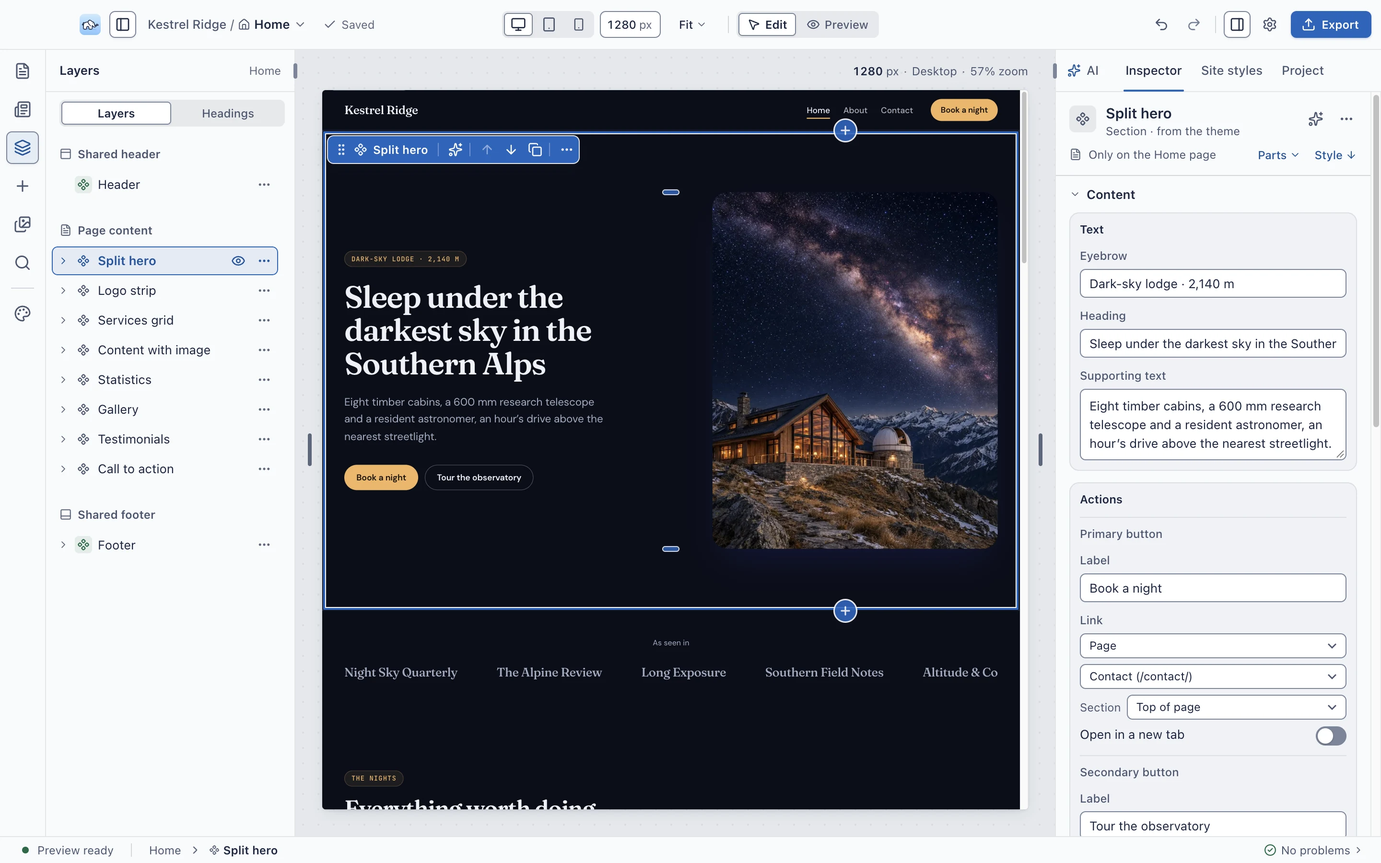
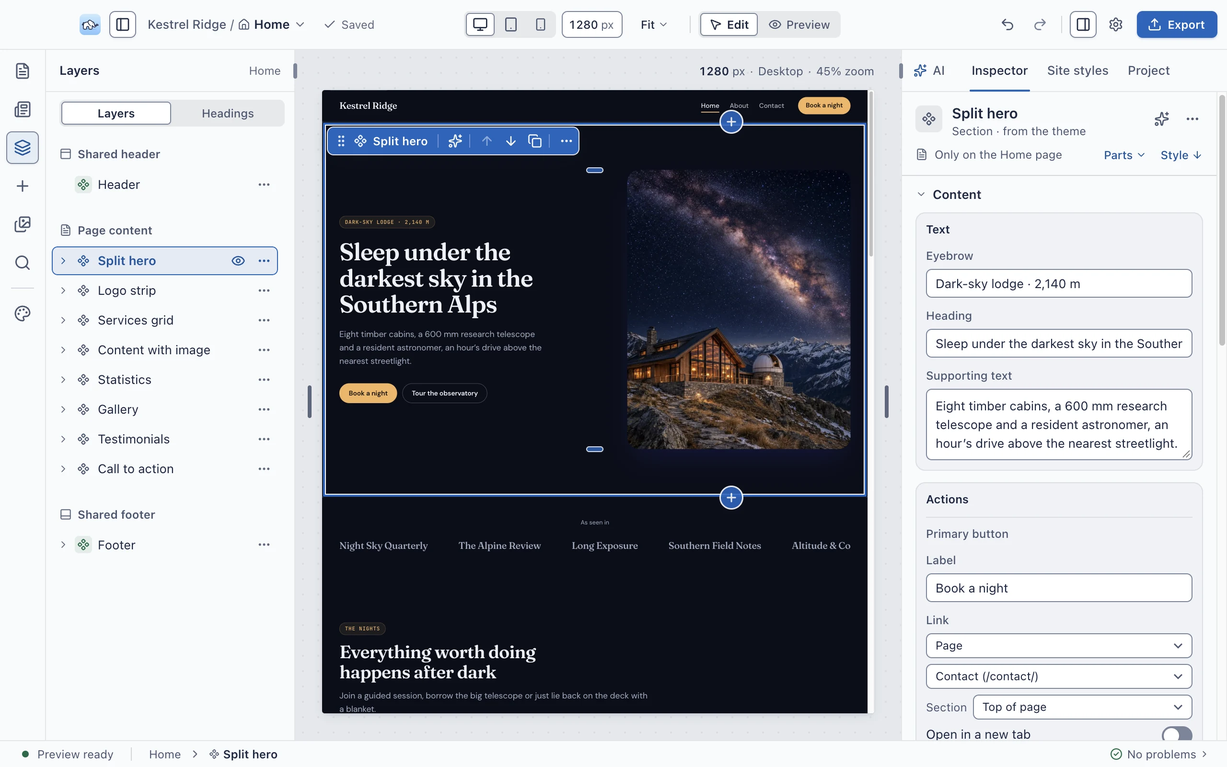
docs(readme): restructure around features, with SEO, content and collaboration
- One Features section with a short part per area, each a few bullets and a
  captioned light and dark screenshot, plus an Also included table
- New Search and sharing section with a capture of the SEO view, and new
  Content and Working together sections covering the CMS, outside data
  sources and live sessions
- Run it from source moves up to the second screen, with the first task
- Screenshots retaken at a smaller window and cropped to what each one shows,
  including a blog post in the writer and the AI run with its new section
- Narrower claims on local models, export output and installer signing, and
  the release checklist's CI line matches the pull request check

diff --git a/README.md b/README.md
@@ -1,218 +1,254 @@
 <p align="center">
-  <img src="build/icon.png" width="96" height="96" alt="SiteOrigin Builder">
+  <img src="build/icon.png" width="64" height="64" alt="SiteOrigin Builder icon">
 </p>
 
 <h1 align="center">SiteOrigin Builder</h1>
 
 <p align="center">
   <strong>Websites you own, built visually.</strong><br>
-  A free, open-source desktop editor for small and mid-sized websites, with an AI assistant that can run on your own computer.
+  A free, open-source desktop editor for small and mid-sized websites, from a business site with a blog to a portfolio or a small publication. Every site is a plain SvelteKit project on your own computer.
 </p>
 
 <p align="center">
-  <a href="#what-you-can-build">Features</a> ·
-  <a href="#the-ai-assistant">AI assistant</a> ·
-  <a href="#your-site-is-just-a-sveltekit-project">Your code</a> ·
-  <a href="#future-work-a-local-first-model">Local model</a> ·
-  <a href="#development">Development</a>
+  <a href="LICENSE"><img src="https://img.shields.io/badge/licence-Apache--2.0-blue" alt="Licence: Apache-2.0"></a>
+  <img src="https://img.shields.io/badge/status-v0.1%20prototype-orange" alt="Status: v0.1 prototype">
+  <img src="https://img.shields.io/badge/runs%20on-macOS%20%C2%B7%20Windows%20%C2%B7%20Linux-lightgrey" alt="Runs on macOS, Windows and Linux">
+</p>
+
+<p align="center">
+  <a href="#run-it-from-source">Run it from source</a> ·
+  <a href="#features">Features</a> ·
+  <a href="#roadmap">Roadmap</a>
 </p>
 
 <p align="center">
   <picture>
     <source media="(prefers-color-scheme: dark)" srcset="docs/images/readme/editor-dark.webp">
-    <img src="docs/images/readme/editor-light.webp" alt="The SiteOrigin Builder editor: a dark-sky lodge website on the canvas with its hero section selected, the layers panel on the left and the inspector on the right" width="100%">
+    <img src="docs/images/readme/editor-light.webp" alt="The SiteOrigin Builder editor with a dark-sky lodge website on the canvas, its hero section selected in the layers tree and open in the inspector" width="100%">
   </picture>
+  <br>
+  <sub>Editing the home page of Kestrel Ridge, a made-up lodge site. The selection is shared by the canvas, the layers tree and the inspector.</sub>
 </p>
 
-SiteOrigin Builder is a desktop app for building websites. You edit the site directly on the canvas, and you can ask an AI assistant to do the heavy lifting when that's quicker.
+You edit the site directly on the canvas, and you can ask an AI assistant when that's quicker, using a cloud model or one running on your own machine. Builder also shows you how every page will look in search results and shared links, and you can invite people into a live session to watch or edit with you.
 
-It's aimed at the middle ground. Think a business site with a blog, a studio portfolio with case studies and a team page, or a small publication. Posts, collections and archives cover the content side, so you're not limited to a handful of static pages. It isn't meant for web apps, online stores or sites with user accounts.
-
-Every site you make is a normal SvelteKit project in a folder on your computer. You can export it, put it in git, host it anywhere or hand it to a developer. There's no account to create, no hosted database and nothing your published site depends on.
+What you build is yours: a folder you can put in git, host anywhere or hand to a developer. There's no account to create, and your published site runs without Builder. It isn't meant for web apps, online stores or sites with user accounts.
 
 > [!NOTE]
-> This is a prototype (version 0.1). It already builds real multi-page sites, but the project format will still change before 1.0. The screenshots in this README are of the real app, editing a made-up dark-sky lodge called Kestrel Ridge.
+> This is a prototype (version 0.1). It already builds real multi-page sites, but the project format will still change before 1.0. The screenshots here are of the real app.
 
-## Why it exists
+## Run it from source
 
-Most website builders keep your site on their servers. You rent it, and if you leave, you start again.
+Downloadable installers are planned. For now, run Builder from source with Node 24.15+ (22.22.2+ and 26+ also work).
 
-With SiteOrigin Builder, the editor runs on your computer and writes standard SvelteKit code into your project folder. You use the app to build the site, then deploy the output wherever you want.
+```sh
+git clone https://github.com/siteorigin/builder.git
+cd builder
+npm install
+npm run dev
+```
 
-A few practical choices shape the editor:
+When the app opens, choose **New project**, pick the Business starter and start editing. **Export** gives you the finished site. The AI assistant is optional: add a key or point it at a local model in **Settings → AI assistant**.
 
-- **The page stays front and centre.** The live preview gets most of the window, with sidebars for pages, layers, styles and chat around it.
-- **You don't need AI.** Manual editing does everything on its own. The assistant is there when it's quicker to ask.
-- **One edit path for you and the AI.** Assistant changes go through the same validation and undo history as your own edits.
-- **Crash recovery is built in.** Edits are written to a journal and grouped into undo steps, so interrupted work can be recovered.
+## Features
 
-## What you can build
+### Design on the canvas
 
-### Editing on the canvas
+Click anything on the page to select it, and edit text right where it sits. The inspector shows the controls for whatever you picked, from text, links and images to layout, spacing, typography and appearance.
 
-Click anything on the canvas to select it, and edit text right where it sits. The inspector shows typed controls for whatever you picked (text, links, images, icons, lists), plus layout, spacing, size, typography and appearance. Selection stays in sync across the canvas, the layers tree, the breadcrumb and the inspector.
-
-Drag sections to reorder them, or move elements between containers in Layers. Wrap things in a stack, row or grid, turn a repeated element into a list, or save a section as a component to reuse across the site.
-
-<p align="center">
-  <picture>
-    <source media="(prefers-color-scheme: dark)" srcset="docs/images/readme/phone-insert-dark.webp">
-    <img src="docs/images/readme/phone-insert.webp" alt="The Insert panel listing column layouts and blocks, with the site previewed at phone width and the hero section selected" width="100%">
-  </picture>
-</p>
-
-### Responsive overrides
-
-Every page has one content tree and one set of styles, with optional overrides for phone, tablet and desktop. Switch the preview width and override only the styles that need to change at that size.
-
-### Site-wide styles
-
-Colours, fonts, text styles, spacing, containers, radii, shadows and borders all live in one place as site-wide tokens. Change the brand colour once and every button, link and badge follows. Contrast is checked as you go, so you can see whether button text is still readable before you ship it.
+- **Sections and layouts.** Insert sections, drag them into order, or wrap elements in a stack, row or grid.
+- **Reusable components.** Save a section as a component, edit it everywhere at once, or make one copy unique.
+- **Responsive overrides.** One page and one set of styles, with overrides for phone, tablet and desktop only where you need them.
+- **History and versions.** Undo survives a restart, and you can save named versions and restore any of them.
 
 <p align="center">
   <picture>
-    <source media="(prefers-color-scheme: dark)" srcset="docs/images/readme/site-styles-dark.webp">
-    <img src="docs/images/readme/site-styles.webp" alt="The Site styles panel showing the Signal theme, the brand colour with live contrast checks, and the display font set to Fraunces" width="100%">
+    <source media="(prefers-color-scheme: dark)" srcset="docs/images/readme/phone-dark.webp">
+    <img src="docs/images/readme/phone.webp" alt="The lodge site previewed at 390 pixels wide, with its hero section selected and its eyebrow, heading, text and buttons open in the inspector" width="100%">
   </picture>
+  <br>
+  <sub>The same page at phone width. The content is shared, so only styles you override for phone change.</sub>
 </p>
 
-### Three themes, one set of components
+### Search and sharing
 
-SiteOrigin Builder includes three themes built on the same component contracts, so you can switch themes without losing any of your content.
+The **SEO view** takes over the canvas. It opens on an overview of every page and post and flags the ones that still need a search title, description or sharing image. Choose one and you get a realistic results page, with your own result marked among placeholder results, and it updates as you type.
+
+- **Search results and link previews.** Computer or phone, light or dark, plus each platform's share card, so you can see where a title gets cut short or an image is missing.
+- **Structured data in plain words.** What search engines are told about the page, with the raw JSON-LD tucked away.
+- **Optimize with AI.** Ask the assistant to improve the chosen page's title and description.
+- **Built into the export.** Every site gets `sitemap.xml`, `robots.txt` with a crawler policy and canonical links. Translated pages get `hreflang` alternates, and moved pages get redirect rules for Cloudflare, Netlify or Vercel.
+- **Ready for AI agents.** Every site gets `llms.txt`, and you can turn on Markdown copies of each page and WebMCP declarations for your forms and search.
+
+<p align="center">
+  <picture>
+    <source media="(prefers-color-scheme: dark)" srcset="docs/images/readme/seo-dark.webp">
+    <img src="docs/images/readme/seo.webp" alt="The SEO view listing the site's pages and posts, with a realistic search results page in which the Kestrel Ridge home page is marked among placeholder results" width="100%">
+  </picture>
+  <br>
+  <sub>The SEO view. The arrow marks the Kestrel Ridge result, and you can see where its title gets cut off. The other results are placeholders for comparison.</sub>
+</p>
+
+### The AI assistant
+
+The assistant uses the same validated edit operations as the visual editor, so its changes behave exactly like yours. Ask for something and it reads the page, makes its changes, checks them and reports back. Each request lands as a single undo step.
+
+It works within strict limits:
+
+- **Scope is explicit.** With an element selected, a request can only change that element. Anything wider needs your approval, and the assistant asks for it.
+- **Typed tools only.** It has no shell, filesystem or network access, so it can only act through the editor's own tools.
+- **No image pixels go to the model.** It refers to images by name and ID instead of uploading them.
+- **No custom code unless Developer mode is on.** By default it works with theme components and site styles.
+
+<p align="center">
+  <picture>
+    <source media="(prefers-color-scheme: dark)" srcset="docs/images/readme/ai-running-dark.webp">
+    <img src="docs/images/readme/ai-running.webp" alt="The AI panel partway through a request: an earlier turn has finished with a summary of its changes, and the current turn has added an Aurora season section, which is visible on the canvas, with Stop and undo beside it" width="100%">
+  </picture>
+  <br>
+  <sub>A request in progress. The new section is already on the page, and <strong>Stop and undo</strong> is one click away.</sub>
+</p>
+
+It can also set up a collection, fill it from images you drag into the chat and design its page template.
+
+Page text and structure go to the provider you choose: **OpenAI**, **Anthropic**, or a **local model** through any OpenAI-compatible server, with presets for llama.cpp, Ollama, LM Studio and MLX. Run the model server on your own computer and the assistant's requests stay on that machine. Qwen3.5-2B, the base of our own model, has a built-in profile that knows its real context window.
+
+### Themes and site styles
+
+Three themes ship with Builder. They share one set of component contracts, so you can switch themes and keep all of your content.
 
 | Theme | Character |
 | --- | --- |
 | **Foundation** | Clean and restrained, for service businesses, studios and personal sites. |
-| **Editorial** | High-contrast and typographic: a display serif, hairline rules and asymmetric columns. |
+| **Editorial** | High-contrast and typographic, for magazines, architects and studios: a display serif, hairline rules and asymmetric columns. |
 | **Signal** | Geometric and crisp, for product teams, consultancies and modern trades. |
 
-Each theme covers more than thirty sections and blocks: heroes, service grids, galleries, carousels, pricing tables, team grids, testimonials, FAQs, data tables, video, contact forms, site search, blog layouts and more. Contact forms post to Formspree, Basin, Getform, Web3Forms or Netlify Forms, so you don't need a server.
-
-### Pages, posts and site tools
-
-- **Pages and posts.** Add, nest and reorder pages, set routes and SEO, and mark drafts. Posts have categories, tags, archives and an RSS feed. You can import existing posts from a WordPress export file or a folder of Markdown (Jekyll, Hugo, Eleventy and Astro front matter all work).
-- **Collections.** Structured content like team members, projects or events, each with its own fields and an optional page per entry.
-- **Languages.** Give a page a language and link its translations. The export declares `hreflang` alternates for you.
-- **SEO and AI discovery.** A dedicated SEO view checks titles, descriptions and sharing images across the whole site. SiteOrigin Builder can also write `llms.txt`, Markdown mirrors of each page and WebMCP declarations for AI agents.
-- **Assets.** Import images (with responsive copies made for you), fonts and documents. You can see where each one is used, replace it everywhere at once or clear out anything unused.
-- **History and versions.** Undo survives a restart, the history is grouped into readable steps, and you can save named versions and restore any of them.
-- **Find and replace, command menu, spelling.** Replace text across every page, run any action from the command menu (Cmd/Ctrl+K), and fix spelling with a right-click.
-
-### Custom Svelte code
-
-Turn on **Developer mode** in Settings and you can view the generated Svelte for any component, convert a component to code, or write your own Svelte components in a built-in editor with live compiler diagnostics. Before saving, the editor checks that the component compiles for browser and server, imports only allowed modules, and avoids raw HTML and `eval`. If a check fails, it blocks the save and shows you why. With an AI provider set up, a small repair agent can fix the code and run the checks again.
-
-Developer mode is off by default, because most people building a site like this never need it.
-
-## The AI assistant
+Each covers more than thirty sections and blocks, from heroes, galleries and carousels to pricing tables, FAQs, contact forms and blog layouts. Colours, fonts, text styles, spacing, radii, shadows and borders live in **Site styles** as site-wide tokens. Change the brand colour once and every button and link that uses it follows, with contrast checked as you go.
 
 <p align="center">
-  <img src="docs/images/readme/ai-running.webp" alt="The AI panel partway through a request: an earlier turn completed, the current one has read the page and added an aurora season section, which is already visible on the canvas" width="100%">
+  <picture>
+    <source media="(prefers-color-scheme: dark)" srcset="docs/images/readme/site-styles-dark.webp">
+    <img src="docs/images/readme/site-styles.webp" alt="The Site styles panel showing the Signal theme and the amber brand colour with its contrast checks, beside the lodge site's story and statistics sections" width="100%">
+  </picture>
+  <br>
+  <sub>Site styles. Button text on the amber brand colour is checked at 10.18:1.</sub>
 </p>
 
-The assistant uses the same validated edit operations as the visual editor, so an AI change behaves exactly like one you made by hand. Ask for something, and it reads the page, makes its changes, checks them and reports back. Each request lands as a single undo step, and you can stop and revert at any point.
+### Content: posts, collections and outside data
 
-It works within strict limits:
+Builder includes an optional flat-file CMS. A site that doesn't need it stays simple.
 
-- **Scope is explicit.** If you have an element selected, the request can only change that element. Anything wider needs your approval, and the assistant asks for it.
-- **Typed tools only.** It has no shell, filesystem or network access, so it can only act through the editor's own tools.
-- **No image pixels go to the model.** The assistant refers to images by name and ID instead of uploading them.
-- **No custom code unless Developer mode is on.** By default, the assistant works with theme components and site styles.
+- **Posts.** Categories, tags, archives and an RSS feed, with drafts and a writer of their own.
+- **Collections.** Structured content like team members, projects or events, each with its own fields, edited in the **Content** workspace, with an optional page per entry.
+- **Loops and queries.** Any section can repeat over a collection with filters, sorting and limits. It all resolves to plain Svelte at build time.
+- **Outside sources.** Pull content read-only from a headless CMS like Contentful, Sanity or Strapi, a GraphQL endpoint or your own REST API, with field mapping. API tokens stay in your user folder, never in the project or the export.
+- **Mapping and sync.** The assistant can write the field mapping from a sample response, and an exported project can refresh its content with `npm run sync`, in CI or on a webhook, without Builder.
 
-SiteOrigin Builder works with **OpenAI** and **Anthropic**, or with a **local model** through any OpenAI-compatible server. There are presets for llama.cpp, Ollama, LM Studio and MLX. Local servers are loopback-only unless you explicitly allow a remote address, so your site's content stays on your machine.
+<p align="center">
+  <picture>
+    <source media="(prefers-color-scheme: dark)" srcset="docs/images/readme/posts-dark.webp">
+    <img src="docs/images/readme/posts.webp" alt="The Posts panel listing three published lodge blog posts, with the first open in the post writer showing its title, date, author, address and text" width="100%">
+  </picture>
+  <br>
+  <sub>A post open in the writer. Each post gets its own page under /blog/, plus archives and a feed.</sub>
+</p>
 
-## Your site is just a SvelteKit project
+### Working together
 
-Visual edits are saved as JSON documents under `siteorigin/`, and a generator turns them into ordinary Svelte and CSS.
+Click **Share** and you get a link. Guests type a name in a waiting room, and you let them in. It's built for walking a client or a colleague through the site while you talk, so there's no chat.
+
+- **Viewers.** Watch the live site in any browser, with nothing to install and no account.
+- **Collaborators.** Join from their own copy of Builder and make visual edits to your project. Your computer stays the only place the project is written, and guests never see your files, settings, API keys or other projects.
+- **See what each other is doing.** Selections and clicks are highlighted on the canvas, and anyone can pin a short note to a page or element. Notes stay on your machine as a checklist.
+- **You stay in control.** Sessions end after a time you pick, at most 24 hours. You can let a trusted collaborator use AI, which runs on your machine with your provider, and take it back at any time.
+- **An open relay.** The relay is an open-source Cloudflare Worker in this repository. It stores no project files and no accounts.
+
+### Your site is a SvelteKit project
+
+Visual edits are saved as JSON documents under `siteorigin/`, and a generator turns them into ordinary Svelte and CSS. The exported site has no Builder runtime in it.
 
 ```text
 kestrel-ridge/
-├── siteorigin.project.json     # marks the folder as a Builder project
-├── siteorigin/                 # your pages, components and styles, as JSON
-├── src/
-│   ├── routes/                 # generated SvelteKit routes
-│   └── lib/siteorigin/         # generated components and your own code components
-├── static/                     # your images, plus the generated sitemap, robots.txt and llms.txt
-└── .siteorigin/                # private editor state: history, chat, caches (never exported)
+├── siteorigin.project.json   # marks a Builder project
+├── siteorigin/               # pages, components, styles (JSON)
+├── src/routes/               # generated SvelteKit routes
+├── src/lib/siteorigin/       # generated and custom components
+├── static/                   # images, sitemap, robots.txt, llms.txt
+└── .siteorigin/              # private editor state, never exported
 ```
-
-The exported site has no Builder runtime in it. You can ship it two ways:
 
 - **Website files, ready to upload.** Every page is prerendered and checked for editor-only markup, and photo location and camera data are stripped.
-- **The editable source project.** It builds with plain `npm ci && npm run build`, and the output in `build/` works on any static host. Redirect rules can be written for Cloudflare, Netlify or Vercel.
+- **The editable source project.** It builds with plain `npm ci && npm run build`, and the output in `build/` works on any static host.
 
-Both exports work as a folder or a ZIP file, and an exported source ZIP opens straight back up as a working project. The editor's own state lives in `.siteorigin/`, which never leaves your computer.
+Both exports work as a folder or a ZIP file, and an exported source ZIP opens straight back up as a working project.
 
-## How it works
+### Custom Svelte code
 
-```mermaid
-flowchart LR
-  subgraph App["SiteOrigin Builder (Electron)"]
-    UI["Editor UI<br/>React"]
-    Agent["AI assistant<br/>typed tools"]
-    Engine["Edit engine<br/>validated operations, undo, journal"]
-    Gen["Generator<br/>JSON to Svelte and CSS"]
-  end
-  Docs[("siteorigin/<br/>JSON documents")]
-  Src["src/<br/>plain SvelteKit"]
-  Preview["Live preview<br/>project's own Vite server,<br/>sandboxed iframe"]
+Turn on **Developer mode** in Settings to view the generated Svelte for any component, convert a component to code, or write your own Svelte components with live compiler diagnostics. Before saving, the editor checks that the code compiles for browser and server, imports only allowed modules, and avoids raw HTML and `eval`. If a check fails, the save is blocked and you see why.
 
-  UI --> Engine
-  Agent --> Engine
-  Engine --> Docs
-  Docs --> Gen
-  Gen --> Src
-  Src --> Preview
-  Preview -. selection .-> UI
-```
+Developer mode is off by default, because most people building a site like this never need it.
 
-- **One edit pipeline.** Manual edits and AI edits are both `EditOperation`s, checked against the same schemas and scope rules before anything is written.
-- **Real preview.** The project's own Vite and SvelteKit dev server runs in an isolated utility process on loopback, so the canvas shows the actual site inside a sandboxed iframe.
-- **Bundled runtime.** The app bundles its own Node runtime, npm and an offline copy of the starter project's locked packages. Creating a project takes a second or two and needs no network.
+### Also included
 
-The full product and technical design is in the [v0.1 specification](docs/specification-v0.1.md).
+| Area | What you get |
+| --- | --- |
+| **Forms** | Contact forms that post to Formspree, Basin, Getform, Web3Forms or Netlify Forms, so you don't need a server. |
+| **Images and files** | Responsive copies made on import, a list of where each one is used, replace everywhere, and fonts and documents alongside. |
+| **Languages** | Pages linked to their translations, with `hreflang` in the export. |
+| **Imports** | Existing posts from a WordPress export file or a folder of Markdown (Jekyll, Hugo, Eleventy and Astro front matter). |
+| **Project health** | Broken links, missing images and search readiness, flagged before you export. |
+| **Everyday tools** | Find and replace across pages, a command menu (Cmd/Ctrl+K) and right-click spelling suggestions. |
+| **The export itself** | A README with hosting notes for your host, a not-found page, a favicon and an RSS feed with a description for every post. |
 
-## Future work: a local-first model
+## Roadmap
 
-The long-term goal is a free, private website builder whose assistant runs on your own computer out of the box. Cloud models are the practical way to test full-site building right now, while we work toward that local model.
+### A local-first model
 
-We want to ship one official model, fine-tuned for SiteOrigin Builder:
+The long-term goal is a free, private website builder whose assistant runs on your own computer out of the box. Cloud models are the practical way to test full-site building today, and we're aiming to ship our own local model in early 2027.
 
-- **The base model.** We're starting with Qwen3.5-2B under Apache-2.0, trying LoRA first and moving to a full fine-tune only if LoRA plateaus. If Qwen 4 2B ships under the same licence and scores better on our eval set, we'll move to it. The licence matters: it has to let anyone use the model commercially, including fine-tunes, without a revenue cap.
-- **Built for a small model from the start.** The agent already uses compact tool schemas, bounded context, deterministic validation, and grammar-constrained decoding, where every turn is one JSON object enforced token by token. Because the grammar only allows valid operations, a 2B model can handle routine editing reliably.
-- **Training on the right data.** Training and evaluation use real editor operations (changing properties, inserting components, adjusting responsive styles, editing tokens) built from synthetic or explicitly contributed examples. User projects and chat transcripts are never collected.
-- **Reusable training and eval sets.** The long-term work lives in the dataset and the benchmark, so moving to a better base model should mostly mean retraining and running the evals again.
+- **One official model.** We're starting with Qwen3.5-2B under Apache-2.0, fine-tuned for Builder with LoRA first and a full fine-tune only if LoRA plateaus. If Qwen 4 2B ships under the same licence and scores better on our eval set, we'll move to it. The licence has to let anyone use the model commercially, fine-tunes included, without a revenue cap.
+- **Built for a small model.** The agent already uses compact tool schemas, bounded context and grammar-constrained decoding. The grammar keeps every reply in a valid shape, the editor checks every edit, and the benchmark measures how often a model actually finishes the job.
+- **Trained on the right data.** Training and evaluation use real editor operations, built from synthetic or explicitly contributed examples. User projects and chat transcripts are never collected.
 
-We're aiming for early 2027. The plumbing is already in place: the local adapter, runtime presets, per-model capability profiles and a headless benchmark (`npm run eval:agent`, with more than fifty graded cases) that runs against both cloud and local models.
+Other providers will keep working through the same adapter, as optional extras rather than the main path.
 
-Other providers will keep working through the same adapter, but they'll be optional extras rather than the main path.
+### Also planned
 
-### Also on the horizon
-
-- **SiteOrigin Hosting** for one-click publishing. Export stays the default, and you'll always be able to host your site anywhere.
-- **Live collaboration.** The protocol and a relay are in progress, though there's no editor UI for it yet.
-- **More themes**, installable as packs and pinned by digest.
-- **Signed installers and full CI** for macOS, Windows and Linux before the first public release. See [docs/releasing.md](docs/releasing.md).
+- **SiteOrigin Hosting** for one-click publishing. Export stays the default, and you can always host anywhere.
+- **More themes**, installable as packs, and the component library in its own repository.
+- **Installers** for macOS, Windows and Linux, signed on macOS and Windows. See the [release checklist](docs/releasing.md).
 
 ## Development
 
-Node 24.15+ is recommended for development (22.22.2+ and 26+ also work). You don't need Node installed to run the packaged app.
+The [contributor guide](CONTRIBUTING.md) has the full test setup and house rules, and the [v0.1 specification](docs/specification-v0.1.md) has the full design. Development uses the same Node as above; the packaged app bundles its own.
 
 ```sh
-npm install
-npm run dev                          # the app with hot reload
+npm run dev                  # the app with hot reload
 npm run typecheck
-npm test                             # unit and integration tests
-npm run build && npm run test:e2e    # drive the built app with Playwright, headless
-npm run test:export-build            # export integrity, plus a standalone build of the exported source
-npm run eval:agent                   # the agent benchmark (scripted by default; --live costs money)
-npm run pack                         # an unpacked app in dist/
-npm run dist                         # installers: DMG, NSIS and AppImage
+npm test                     # unit and integration tests
+npm run build
+npm run test:e2e             # the built app, driven headless
+npm run eval:agent           # agent benchmark (--live costs money)
+npm run dist                 # installers: DMG, NSIS, AppImage
 ```
 
-End-to-end scripts run the real app headless, so nothing pops up on your screen while they run. In development builds, `OPENAI_API_KEY` and `ANTHROPIC_API_KEY` are read from the environment when no key is saved in Settings. Packaged builds keep saved keys in `api-keys.json` in the app's data folder, readable only by your user account. The app doesn't use the OS keychain, so it never triggers a system password prompt.
+End-to-end scripts run the real app headless, so nothing pops up while they run. In development builds, `OPENAI_API_KEY` and `ANTHROPIC_API_KEY` are read from the environment when no key is saved. Saved keys live in `api-keys.json` in the app's data folder, readable only by your user account on macOS and Linux. The app doesn't use the OS keychain, so it never triggers a system password prompt.
 
-[CONTRIBUTING.md](CONTRIBUTING.md) has the full test guide and the rules that keep projects safe and portable.
+### How it works
+
+Manual edits, assistant edits and collaborators' edits all go through one edit engine, which validates them and writes the project's JSON documents. A generator turns those documents into plain SvelteKit, and the project's own dev server shows it in the canvas.
+
+```mermaid
+flowchart LR
+  Edits["You, the assistant<br/>and collaborators"] --> Engine["Edit engine<br/>validation, undo"]
+  Engine --> Docs[("siteorigin/<br/>JSON")]
+  Docs -->|generates| Src["src/<br/>SvelteKit"]
+  Src --> Preview["Live preview"]
+```
+
+- **One edit pipeline.** Every change is an `EditOperation`, checked against the same schemas and scope rules before anything is written.
+- **Real preview.** The project's own Vite and SvelteKit dev server runs in an isolated utility process on loopback, so the canvas shows the actual site.
+- **Bundled runtime.** The app ships its own Node, npm and an offline copy of the starter's locked packages, so creating a project takes a second or two and needs no network.
 
 ## Licence
 

diff --git a/docs/releasing.md b/docs/releasing.md
@@ -12,6 +12,6 @@ Before a public release (spec §24 and §25.2):
 - [ ] **TODO: signing and notarization.** macOS: a Developer ID Application certificate (`CSC_LINK` / `CSC_KEY_PASSWORD`) and notarization credentials (`APPLE_ID`, `APPLE_APP_SPECIFIC_PASSWORD`, `APPLE_TEAM_ID`), then mount the DMG on a second Mac and check the bundled `.app` with `spctl -a -vv` and `xcrun stapler validate`. Windows: an Authenticode certificate for the NSIS installer. Until then builds are ad-hoc signed or unsigned, and Gatekeeper and SmartScreen warn.
 - [ ] `npm run dist` on each platform; install the DMG and NSIS installer (and launch the AppImage) on a clean machine, create a project offline, export it and build the export.
 - [ ] Tag the release (`vX.Y.Z`) on `main`.
-- [ ] **Deferred until the project is open-sourced:** restore CI. `2aa4206` removed the GitHub Actions CI (typecheck, unit tests, packaged smoke on macOS, Windows and Linux) and the tag-triggered release workflow while the repository is private. When it opens, restore both and add full `test:e2e` jobs for macOS and for Linux under `xvfb-run`. Until then, the full suites run in the local macOS stabilization pass, and the checks above run by hand.
+- [ ] **CI.** Pull requests run one check, `Unit tests` (`npm ci` and `npm test` on Linux, `.github/workflows/ci.yml`). Typecheck, e2e, build and packaged smoke on other platforms run in the local macOS stabilization pass and by hand, as above. There is no tag-triggered release workflow yet.
 
 macOS builds are signed and notarized automatically when a "Developer ID Application" certificate (or `CSC_LINK`) and Apple notarization credentials are available; otherwise they are unsigned.
